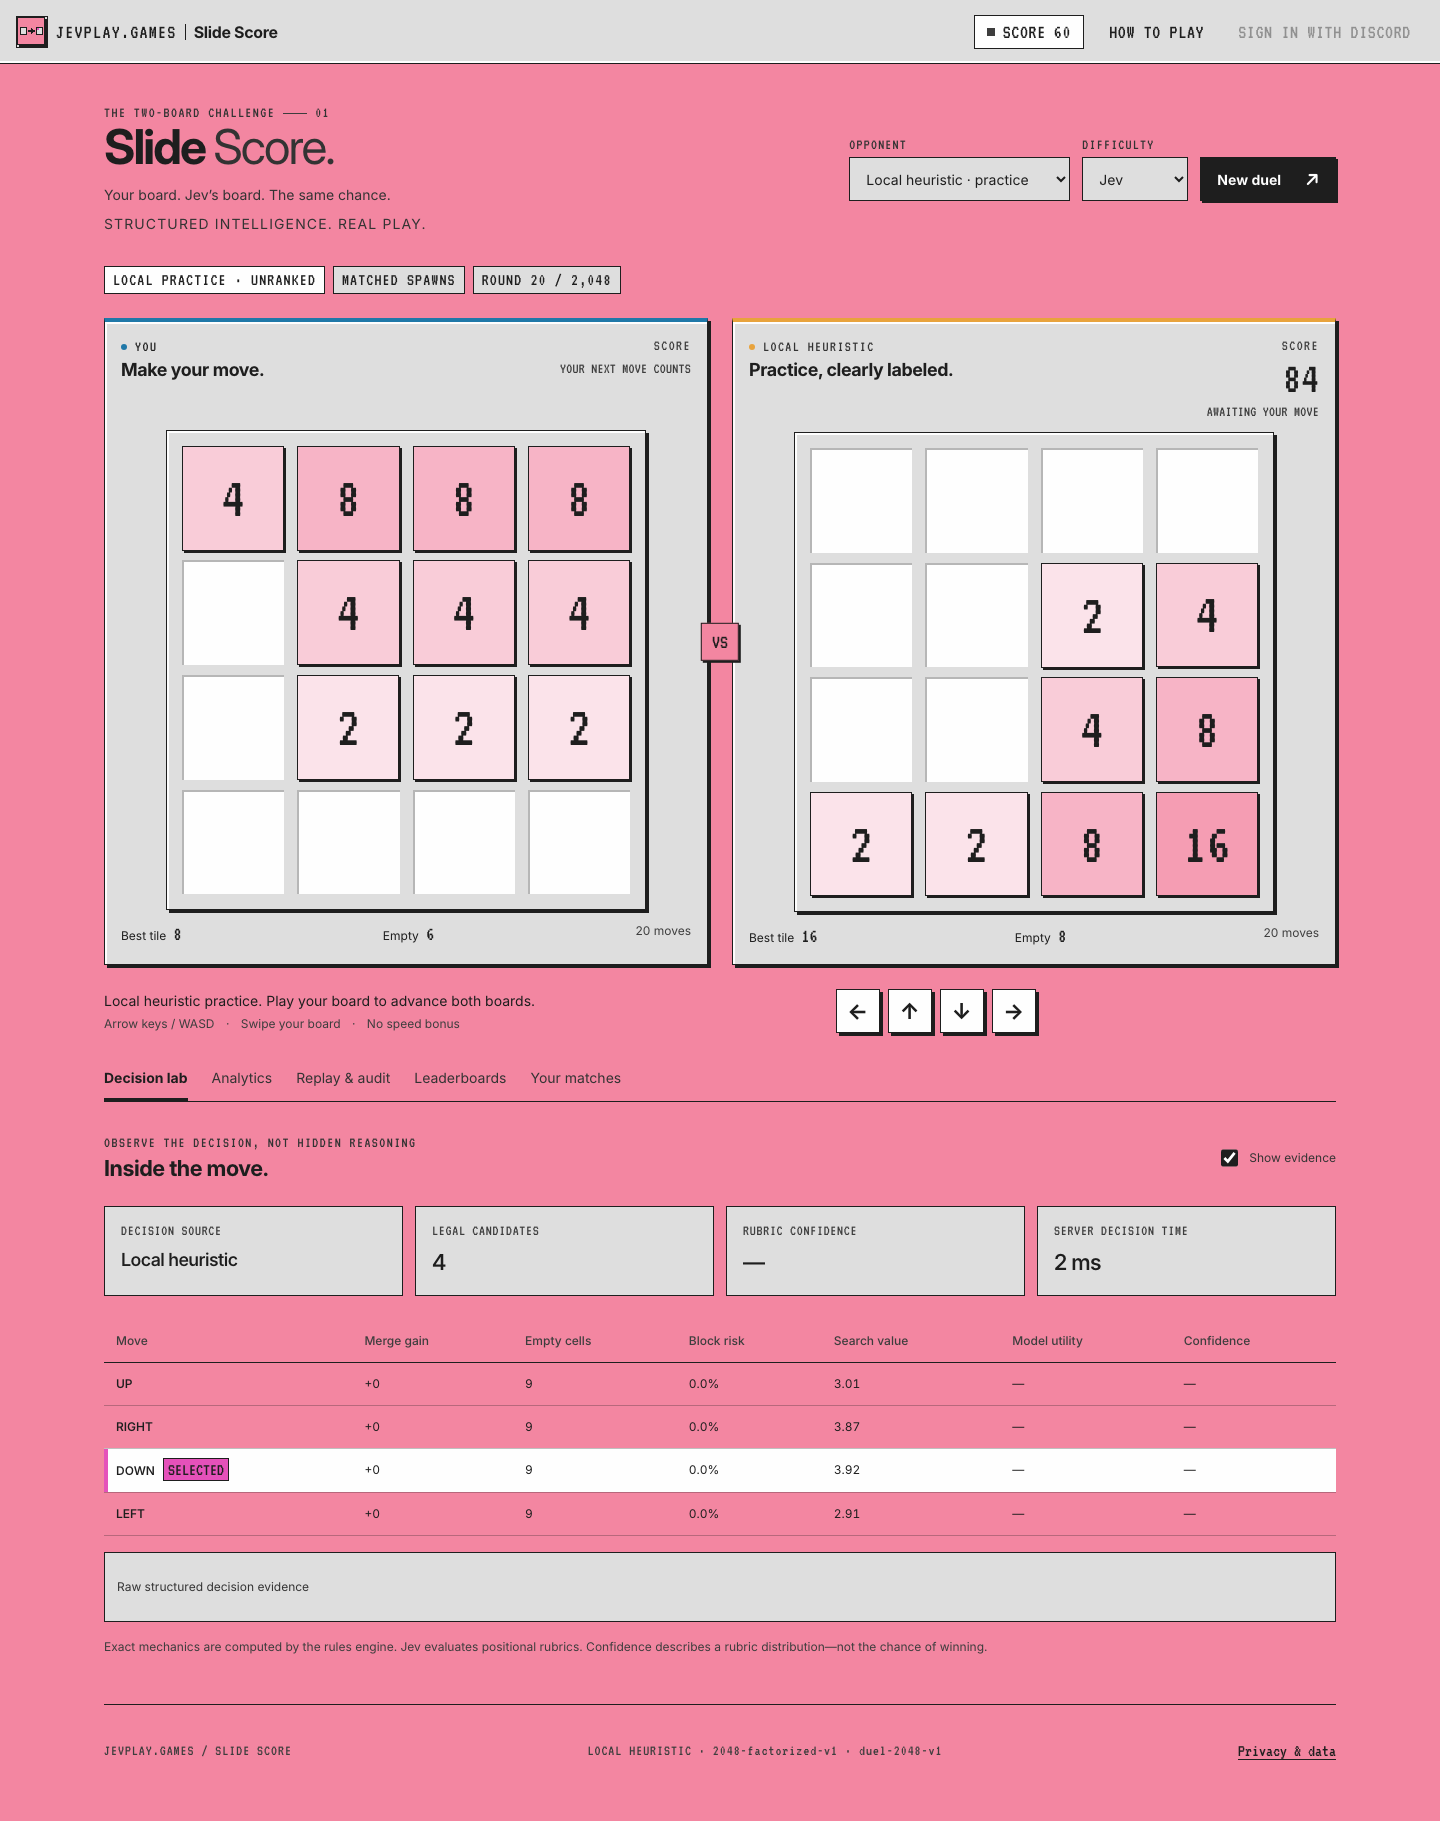
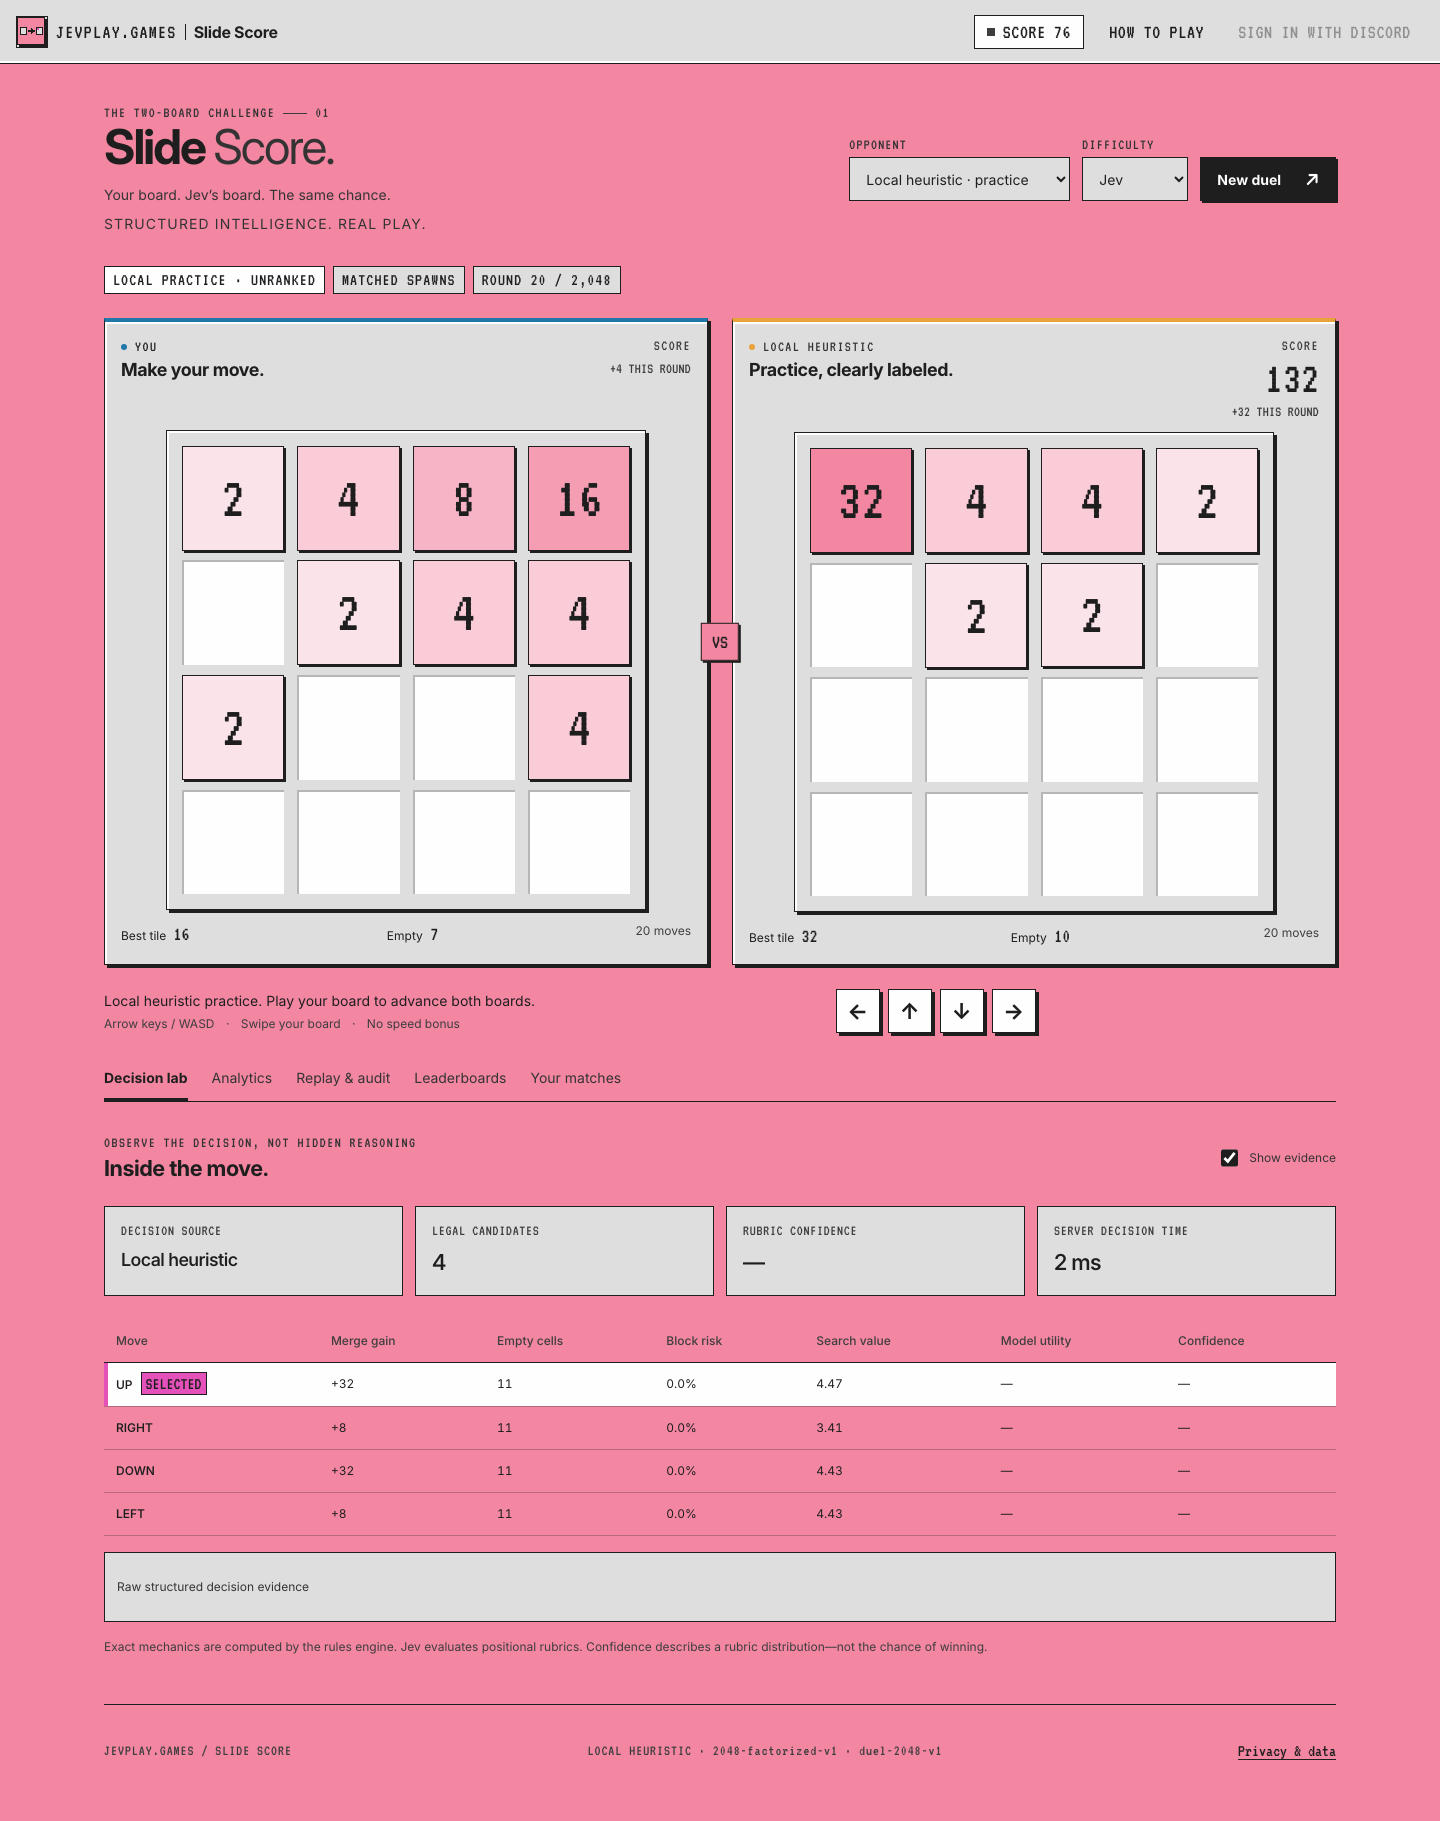
Darken the 128 tile to pass AA; give one-round charts distinct ticks
- --tile-7 #C64787 -> #BF4080: the paper numeral on the 128 tile goes
  from 4.48:1 to 4.89:1 (review T10b). Pixel-verified on a real 128
  tile at 390 and 1440.
- Chart axis top is rounded up to a multiple of 4, so the five whole-
  number tick labels are distinct (a one-round chart read 1 1 1 0 0;
  now 4 3 2 1 0).
- README screenshots retaken; SOURCE_MANIFEST, build-info, SHA256SUMS
  and the Node 22.16 test and coverage reports regenerated.

Part of #11

diff --git a/public/game.js b/public/game.js
@@ -247,7 +247,8 @@ function chart(id, series, lines, label) {
   const container = $(id); container.replaceChildren();
   if (!series.length) { const p = document.createElement('p'); p.className = 'empty-state'; p.textContent = 'Play a few rounds to build this chart.'; container.append(p); return; }
   const width = 510, height = 190, left = 45, right = 10, top = 8, bottom = 26;
-  const max = Math.max(1, ...lines.flatMap(line => series.map(p => Number.isFinite(p[line.key]) ? p[line.key] : 0)));
+  // Round the axis top up to a multiple of 4 so the five whole-number tick labels are distinct (a one-round chart read 1 1 1 0 0).
+  const max = 4 * Math.ceil(Math.max(1, ...lines.flatMap(line => series.map(p => Number.isFinite(p[line.key]) ? p[line.key] : 0))) / 4);
   const svg = svgElement('svg', {viewBox: `0 0 ${width} ${height}`, role: 'img', 'aria-label': label});
   svg.append(svgElement('title', {}, label));
   for (let i = 0; i <= 4; i++) {

diff --git a/public/game.css b/public/game.css
@@ -2,7 +2,7 @@
    sequential ramp (#FBE3EA -> #F386A1 -> #B0287A -> #1E1E1E). Players are told apart by the shared
    --human (blue) and --jev (amber) strips, never by tile colour. */
 :root{--tile-1:#FBE3EA;--tile-2:#F9CCD8;--tile-3:#F7B4C6;--tile-4:#F59DB3;--tile-5:#F386A1;--tile-6:#DD6794;
-  --tile-7:#C64787;--tile-8:#B0287A;--tile-9:#7F255B;--tile-10:#4F213D;--tile-11:#1E1E1E;
+  --tile-7:#BF4080;--tile-8:#B0287A;--tile-9:#7F255B;--tile-10:#4F213D;--tile-11:#1E1E1E;
   /* Chart series (orchestrator decision D8, until the hub brand.css carries chart tokens): brand amber and blue fail on
      the grey panel, so series use dark amber (5.34:1 on #DEDEDE) and dark blue (5.56:1). The Jev series is also dashed so
      colour is not the only cue; legend text stays ink and only the swatch is coloured. Charts sit on grey panels, never pink. */

diff --git a/server/build-info.js b/server/build-info.js
@@ -1,2 +1,2 @@
 // Generated by npm run fingerprint. Source paths and hashes: SOURCE_MANIFEST.json.
[2 lines of base64/hex data omitted]
